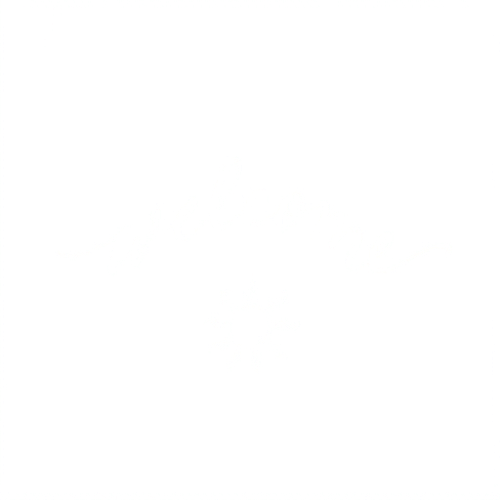
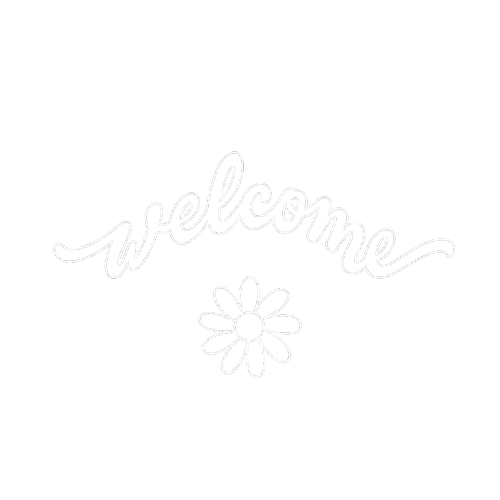
Update image sources in index-intro.html and intro-theme-selector.js to use desktop assets; remove unused mobile images

diff --git a/public/js/intro-theme-selector.js b/public/js/intro-theme-selector.js
@@ -206,8 +206,8 @@ function updateIntroWelcomeImage(resolvedTheme) {
     if (mobileSource) {
       mobileSource.srcset =
         resolvedTheme === "light"
-          ? "images/squooshed/mobile-light.png"
-          : "images/squooshed/mobile-dark.png";
+          ? "images/squooshed/desktop-light.png"
+          : "images/squooshed/desktop-dark.png";
     }
   }
 }
@@ -264,7 +264,7 @@ function setIntroTheme(theme, options = {}) {
       });
 
       transition.finished
-        .catch(() => {})
+        .catch(() => { })
         .finally(() => {
           document.dispatchEvent(new Event("theme:transitioned"));
           introThemeTransitionTimeoutId = setTimeout(() => {

diff --git a/public/index-intro.html b/public/index-intro.html
@@ -62,7 +62,7 @@
         </div>
         <div class="background">
           <picture>
-            <source media="(max-width: 47.99rem)" srcset="images/squooshed/mobile-dark.jpg" />
+            <source media="(max-width: 47.99rem)" srcset="images/squooshed/desktop-dark.png" />
             <img class="welcome-image" src="images/squooshed/desktop-dark.png" alt="raffaele" />
           </picture>
         </div>
